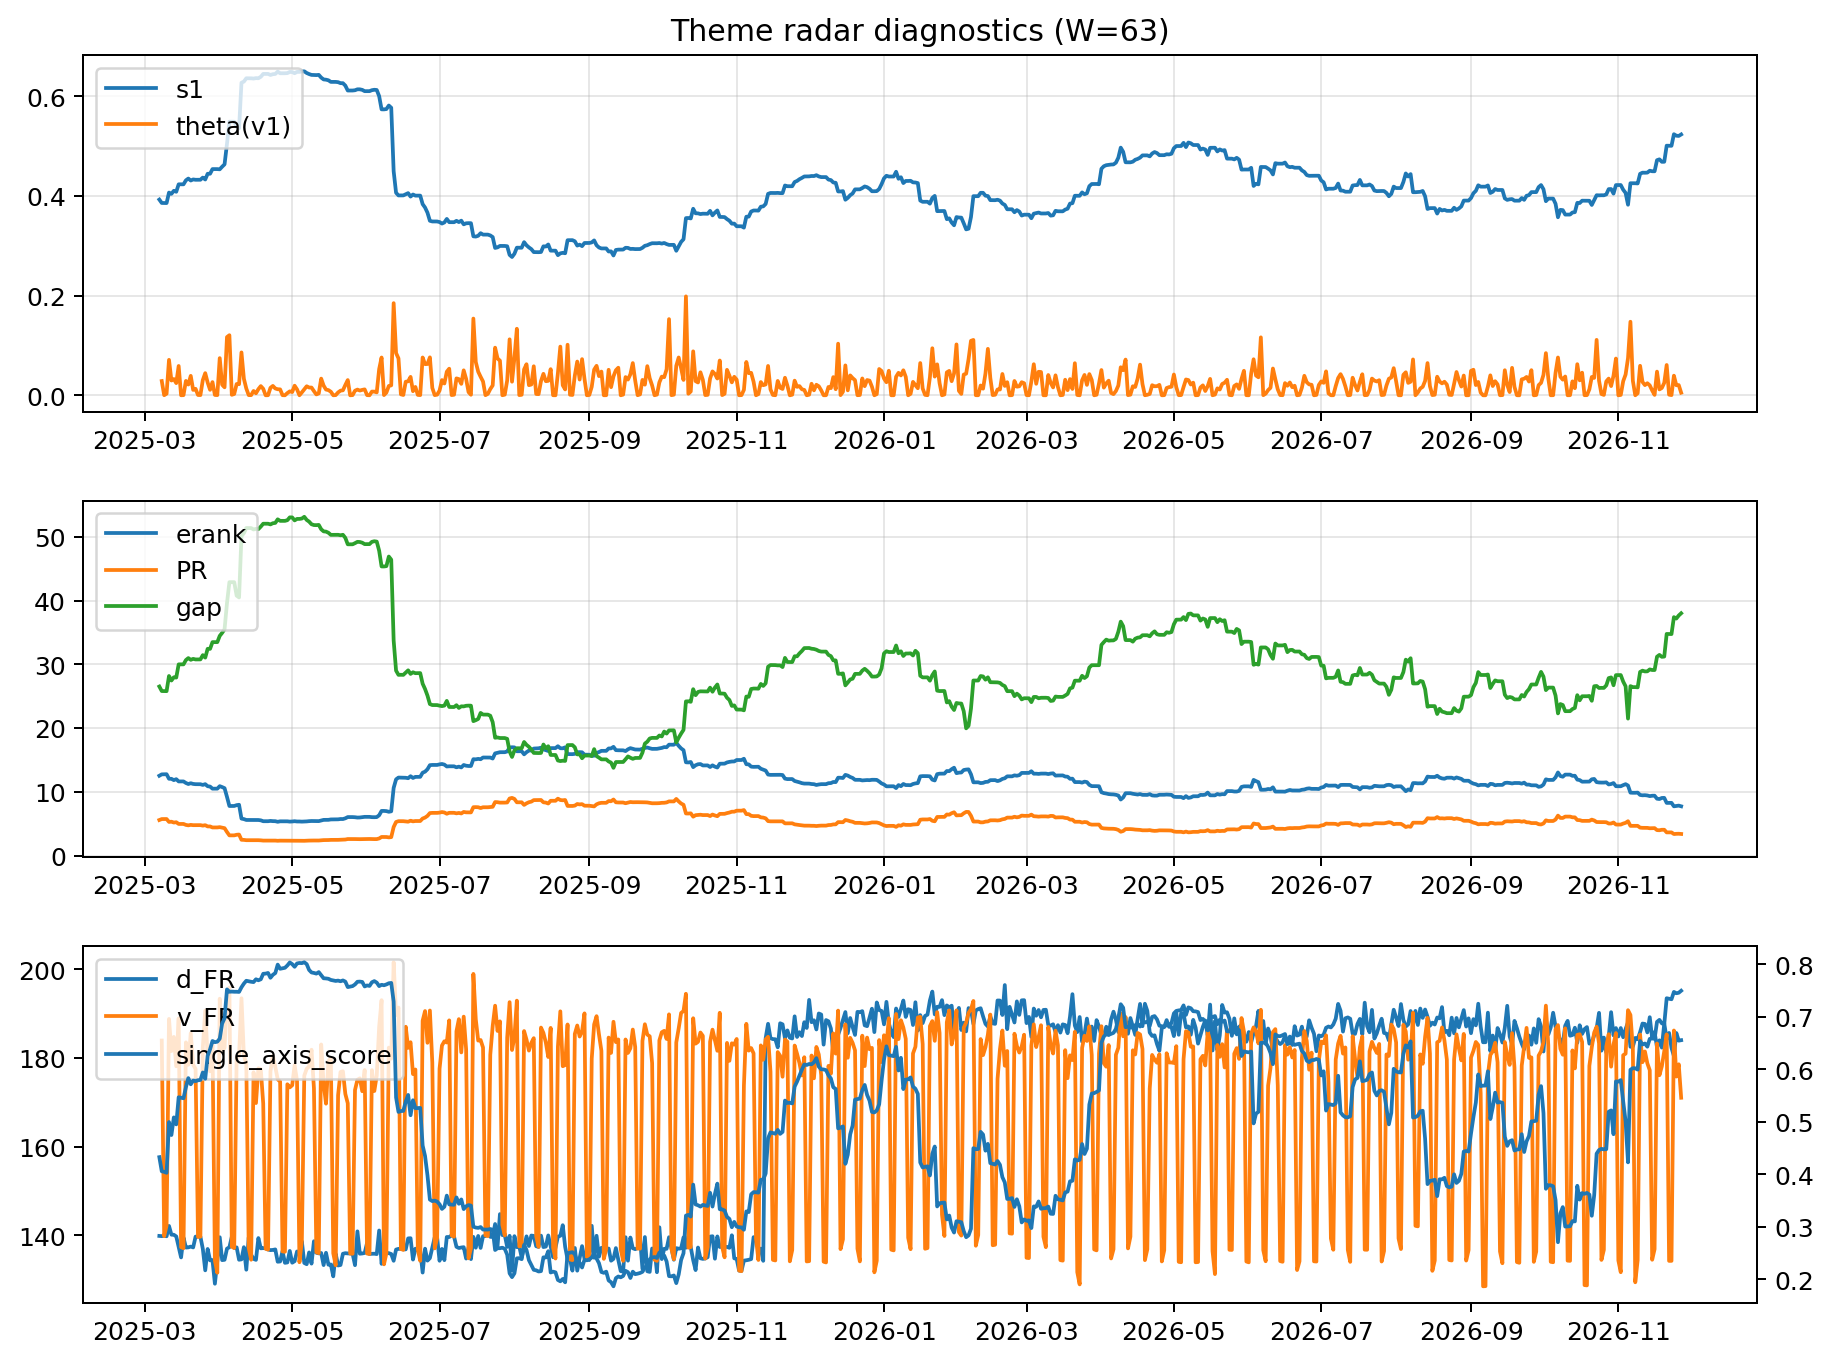
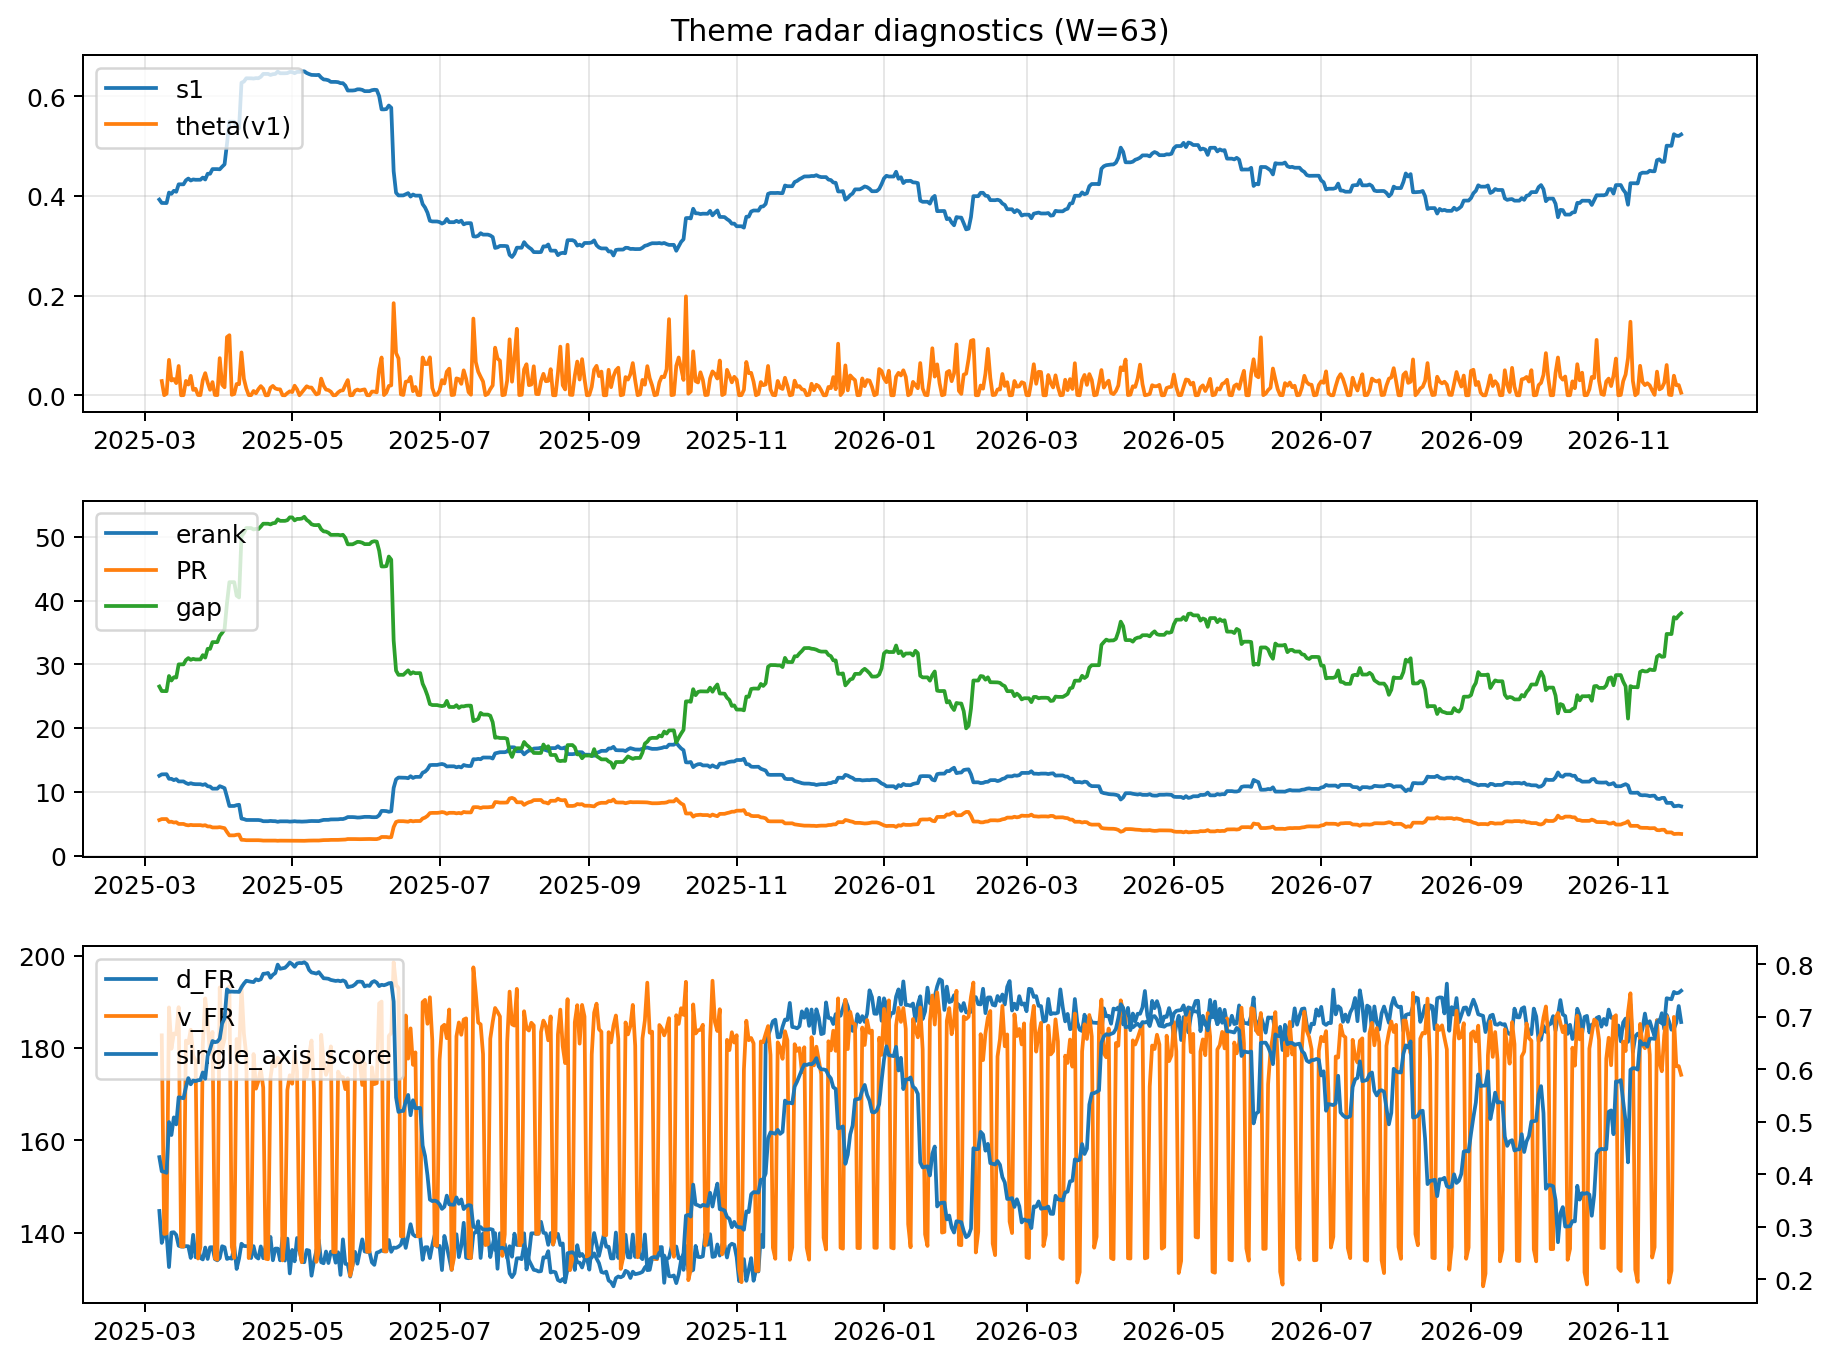
log: 2026-11-27 | sha256:7c72da8acf8f0bf28a006f27ee845fc8d62d6caa22e8bac001dd2e387be172f4

diff --git a/logs/2026-11-27.md b/logs/2026-11-27.md
@@ -3,43 +3,43 @@
 ![diagnostic W63](../assets/diagnostic/2026-11-27_W63.png)
 
 ## Leaders (v1) — W=63
-- **Nuclear_Uranium** (0.079506343460784)
-- Semis (0.0700480433888069)
-- Space (0.0555216877742263)
+- **Nuclear_Uranium** (0.0795063403659739)
+- Semis (0.0700480429442519)
+- Space (0.0555216859432604)
 
 ## Challengers — W=63
-**v2:** Rates (0.0984104226630851), Metals (0.0732220098060516), Semis (0.0643503778679421)
-**v3:** Rates (0.1263592239198143), MegaCap_AI (0.096998856991121), Nuclear_Uranium (0.0893037950561571)
+**v2:** Rates (0.0984104150572507), Metals (0.0732220010606314), Semis (0.0643504057885993)
+**v3:** Rates (0.1263594090881832), MegaCap_AI (0.0969988111442256), Nuclear_Uranium (0.0893038718172612)
 
 ## Migration (20D slope) — W=63
 **Top risers:**
-- axis_Rates: 0.0008042736067012
-- axis_Software_Cloud: 0.000353792654016
-- axis_Drones_Autonomy: 0.0002904192308538
-- axis_Sector_Comm: 0.0002519895179325
-- axis_Metals: 0.0002440768139848
-- axis_MegaCap_AI: 0.000243316255143
-- axis_Cyber: 0.0002201777682816
-- axis_Defense: 0.0001745589352274
-- axis_Sector_Materials: 0.0001738919811567
-- axis_Sector_Fin: 0.0001530883571059
+- axis_Rates: 0.0008042865234667
+- axis_Software_Cloud: 0.0003537920941093
+- axis_Drones_Autonomy: 0.0002904189534094
+- axis_Sector_Comm: 0.0002519893717673
+- axis_Metals: 0.0002440762096383
+- axis_MegaCap_AI: 0.0002433156646299
+- axis_Cyber: 0.0002201774742573
+- axis_Defense: 0.000174558645376
+- axis_Sector_Materials: 0.0001738918105749
+- axis_Sector_Fin: 0.0001530881949419
 
 **Top fallers:**
-- axis_Sector_ConsStap: -0.0001063265193813
-- axis_DataCenter_Infra: -0.0001322714577201
-- axis_Robotics: -0.0001582805824288
-- axis_Space: -0.000167520446971
-- axis_Equity_US: -0.000209670716991
-- axis_Quantum: -0.0002186802196907
-- axis_Credit: -0.0002286328719126
-- axis_Commodities: -0.0003567136118295
-- axis_Semis: -0.0003741787998854
-- axis_Genomics_Bio: -0.0005927408736434
+- axis_Sector_ConsStap: -0.0001063264409534
+- axis_DataCenter_Infra: -0.0001322719052016
+- axis_Robotics: -0.0001582808922667
+- axis_Space: -0.0001675209385447
+- axis_Equity_US: -0.0002096713158647
+- axis_Quantum: -0.0002186809467489
+- axis_Credit: -0.0002286329418613
+- axis_Commodities: -0.000356713764944
+- axis_Semis: -0.0003741792131101
+- axis_Genomics_Bio: -0.0005927419228143
 
 ## Risk line (W=63)
-- s1: 0.523235851491328
-- theta_v1: 0.0052096985336407
-- v_FR: 171.03697608812027
+- s1: 0.5232358666080767
+- theta_v1: 0.0052097000314056
+- v_FR: 174.2166809544298
 - single_axis_score: 0.7492868462757528
 
 ## Interpretation
@@ -48,7 +48,7 @@
 - Action: Tomorrow watchlist: Rates, Software_Cloud, Drones_Autonomy, Sector_Comm, Metals + v2_top1=Rates
 - Action: Hedge note: normal correlation stability.
 
-- Percentiles (W=63 history): vfr_pct=0.29, theta_pct=0.28, s1_pct=0.89, score_pct=0.90.
+- Percentiles (W=63 history): vfr_pct=0.32, theta_pct=0.28, s1_pct=0.89, score_pct=0.90.
 
 ---
[2 lines of base64/hex data omitted]
